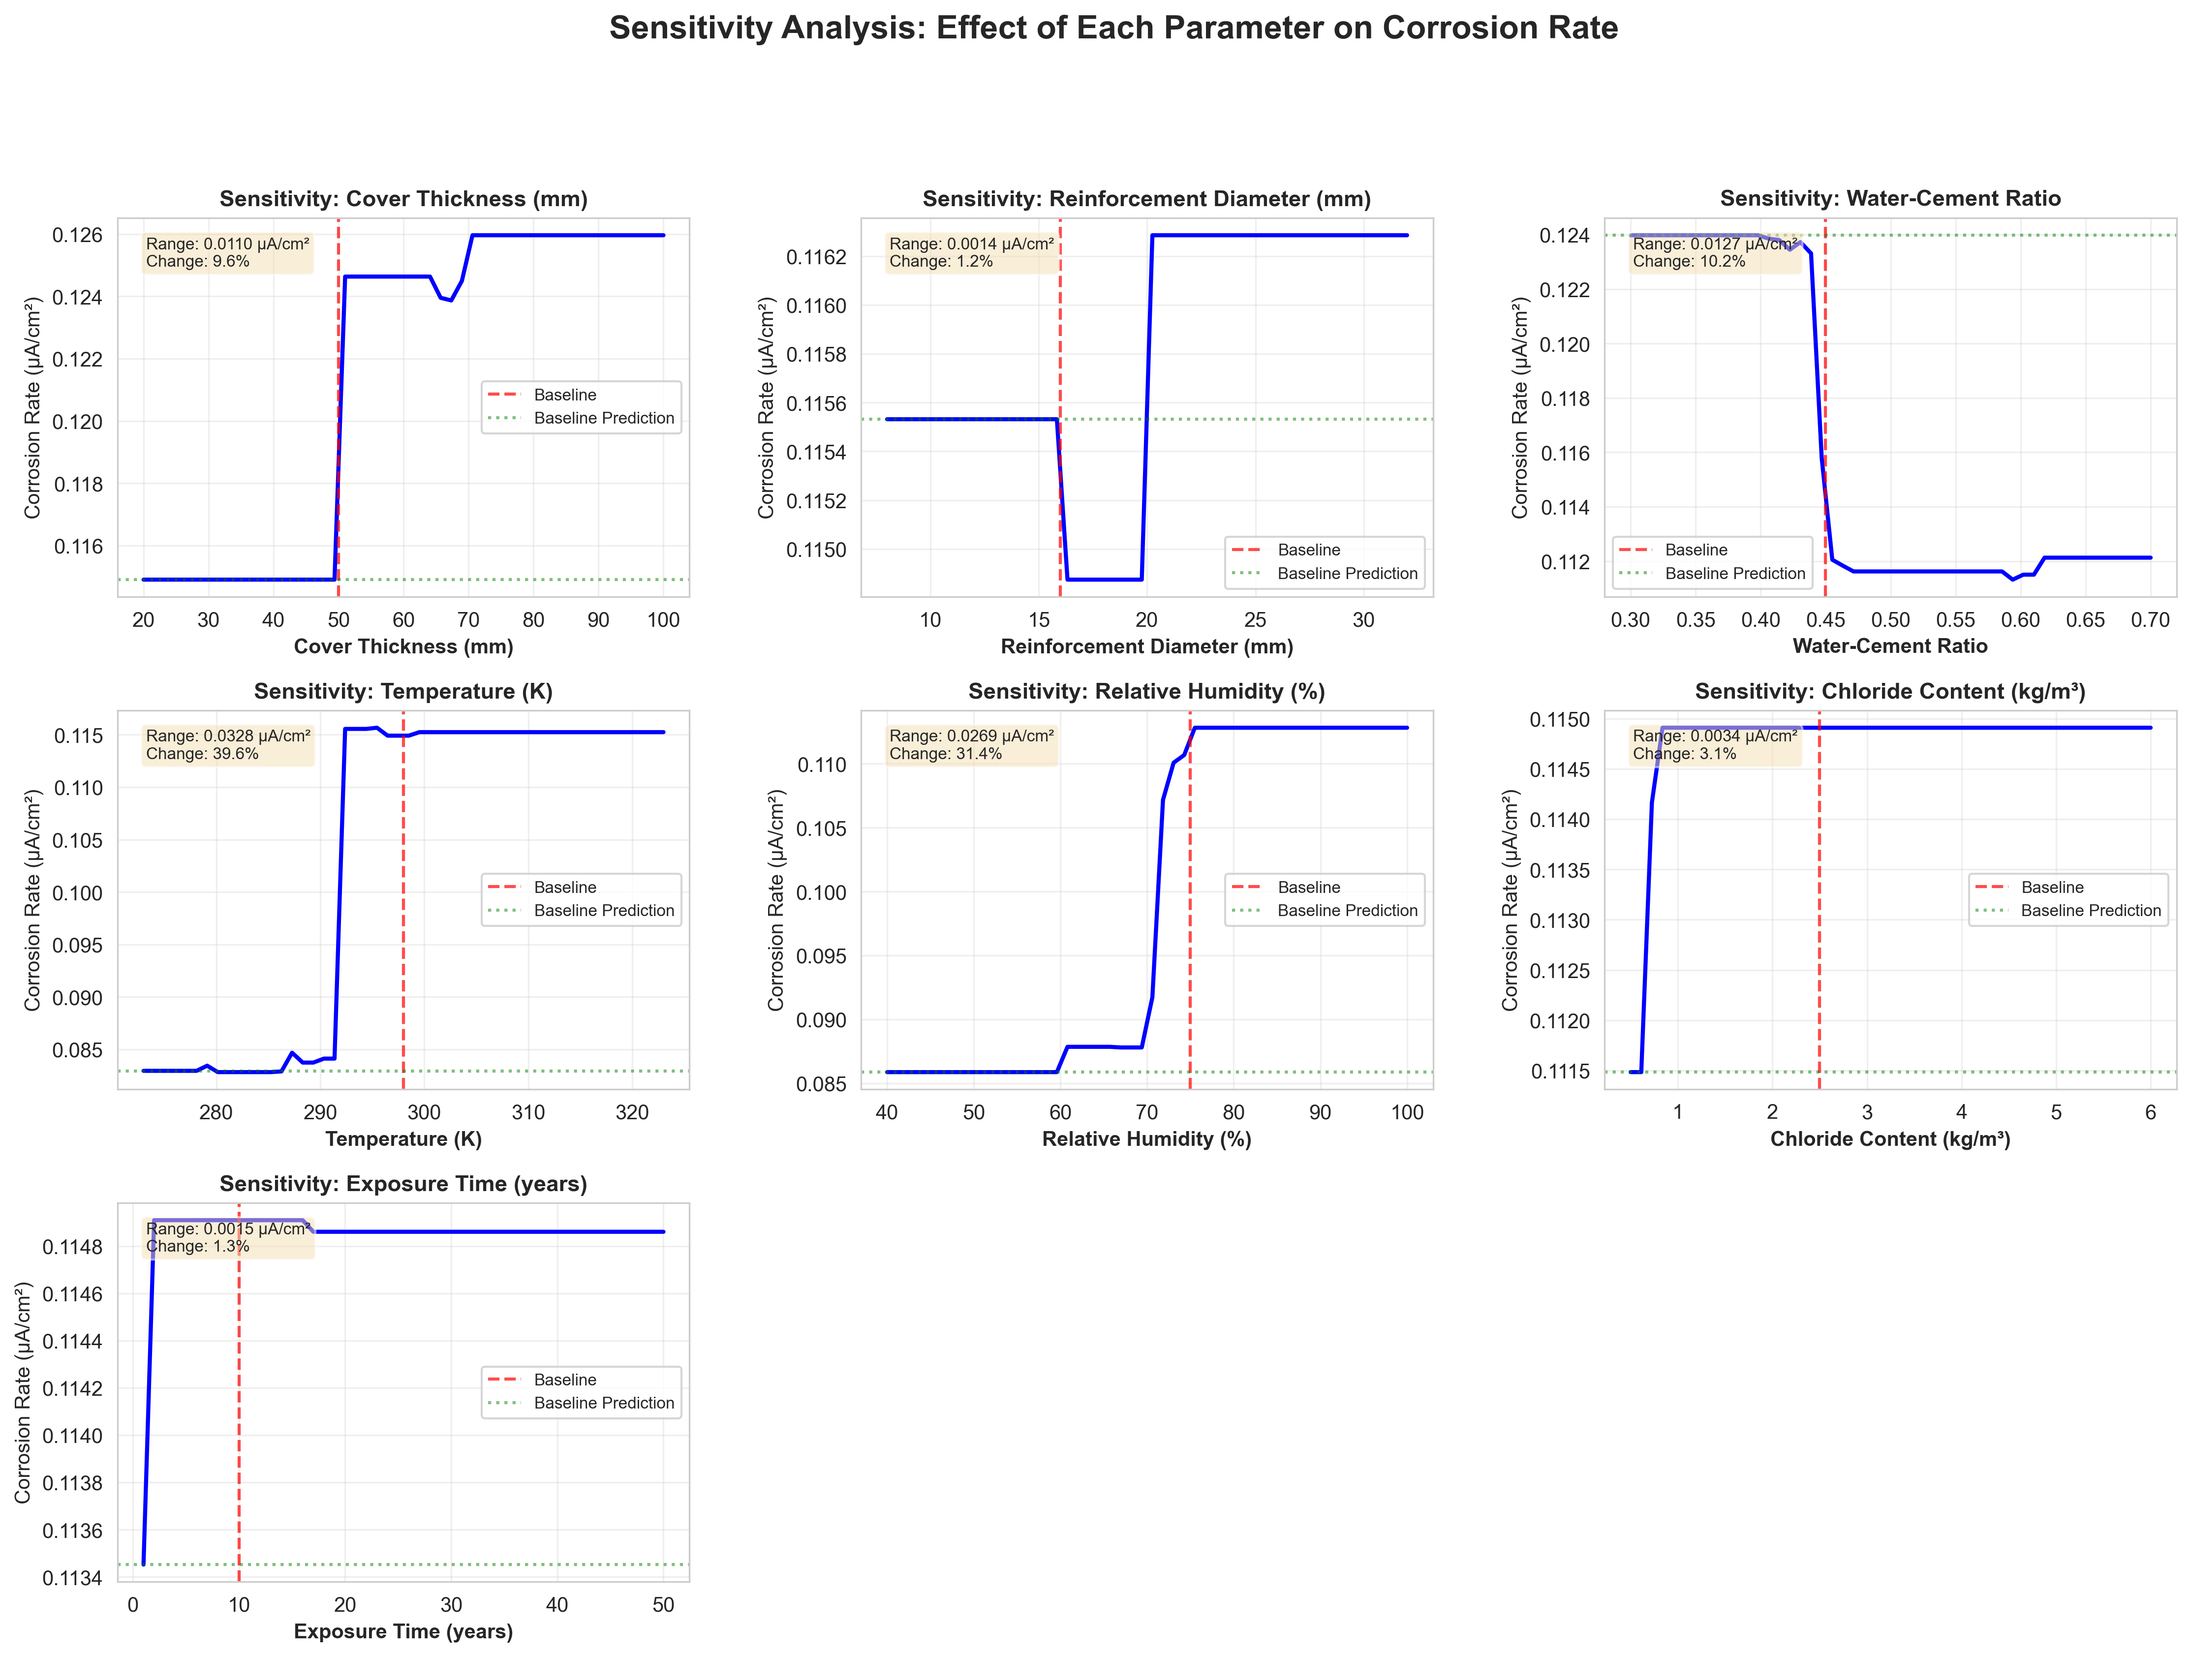
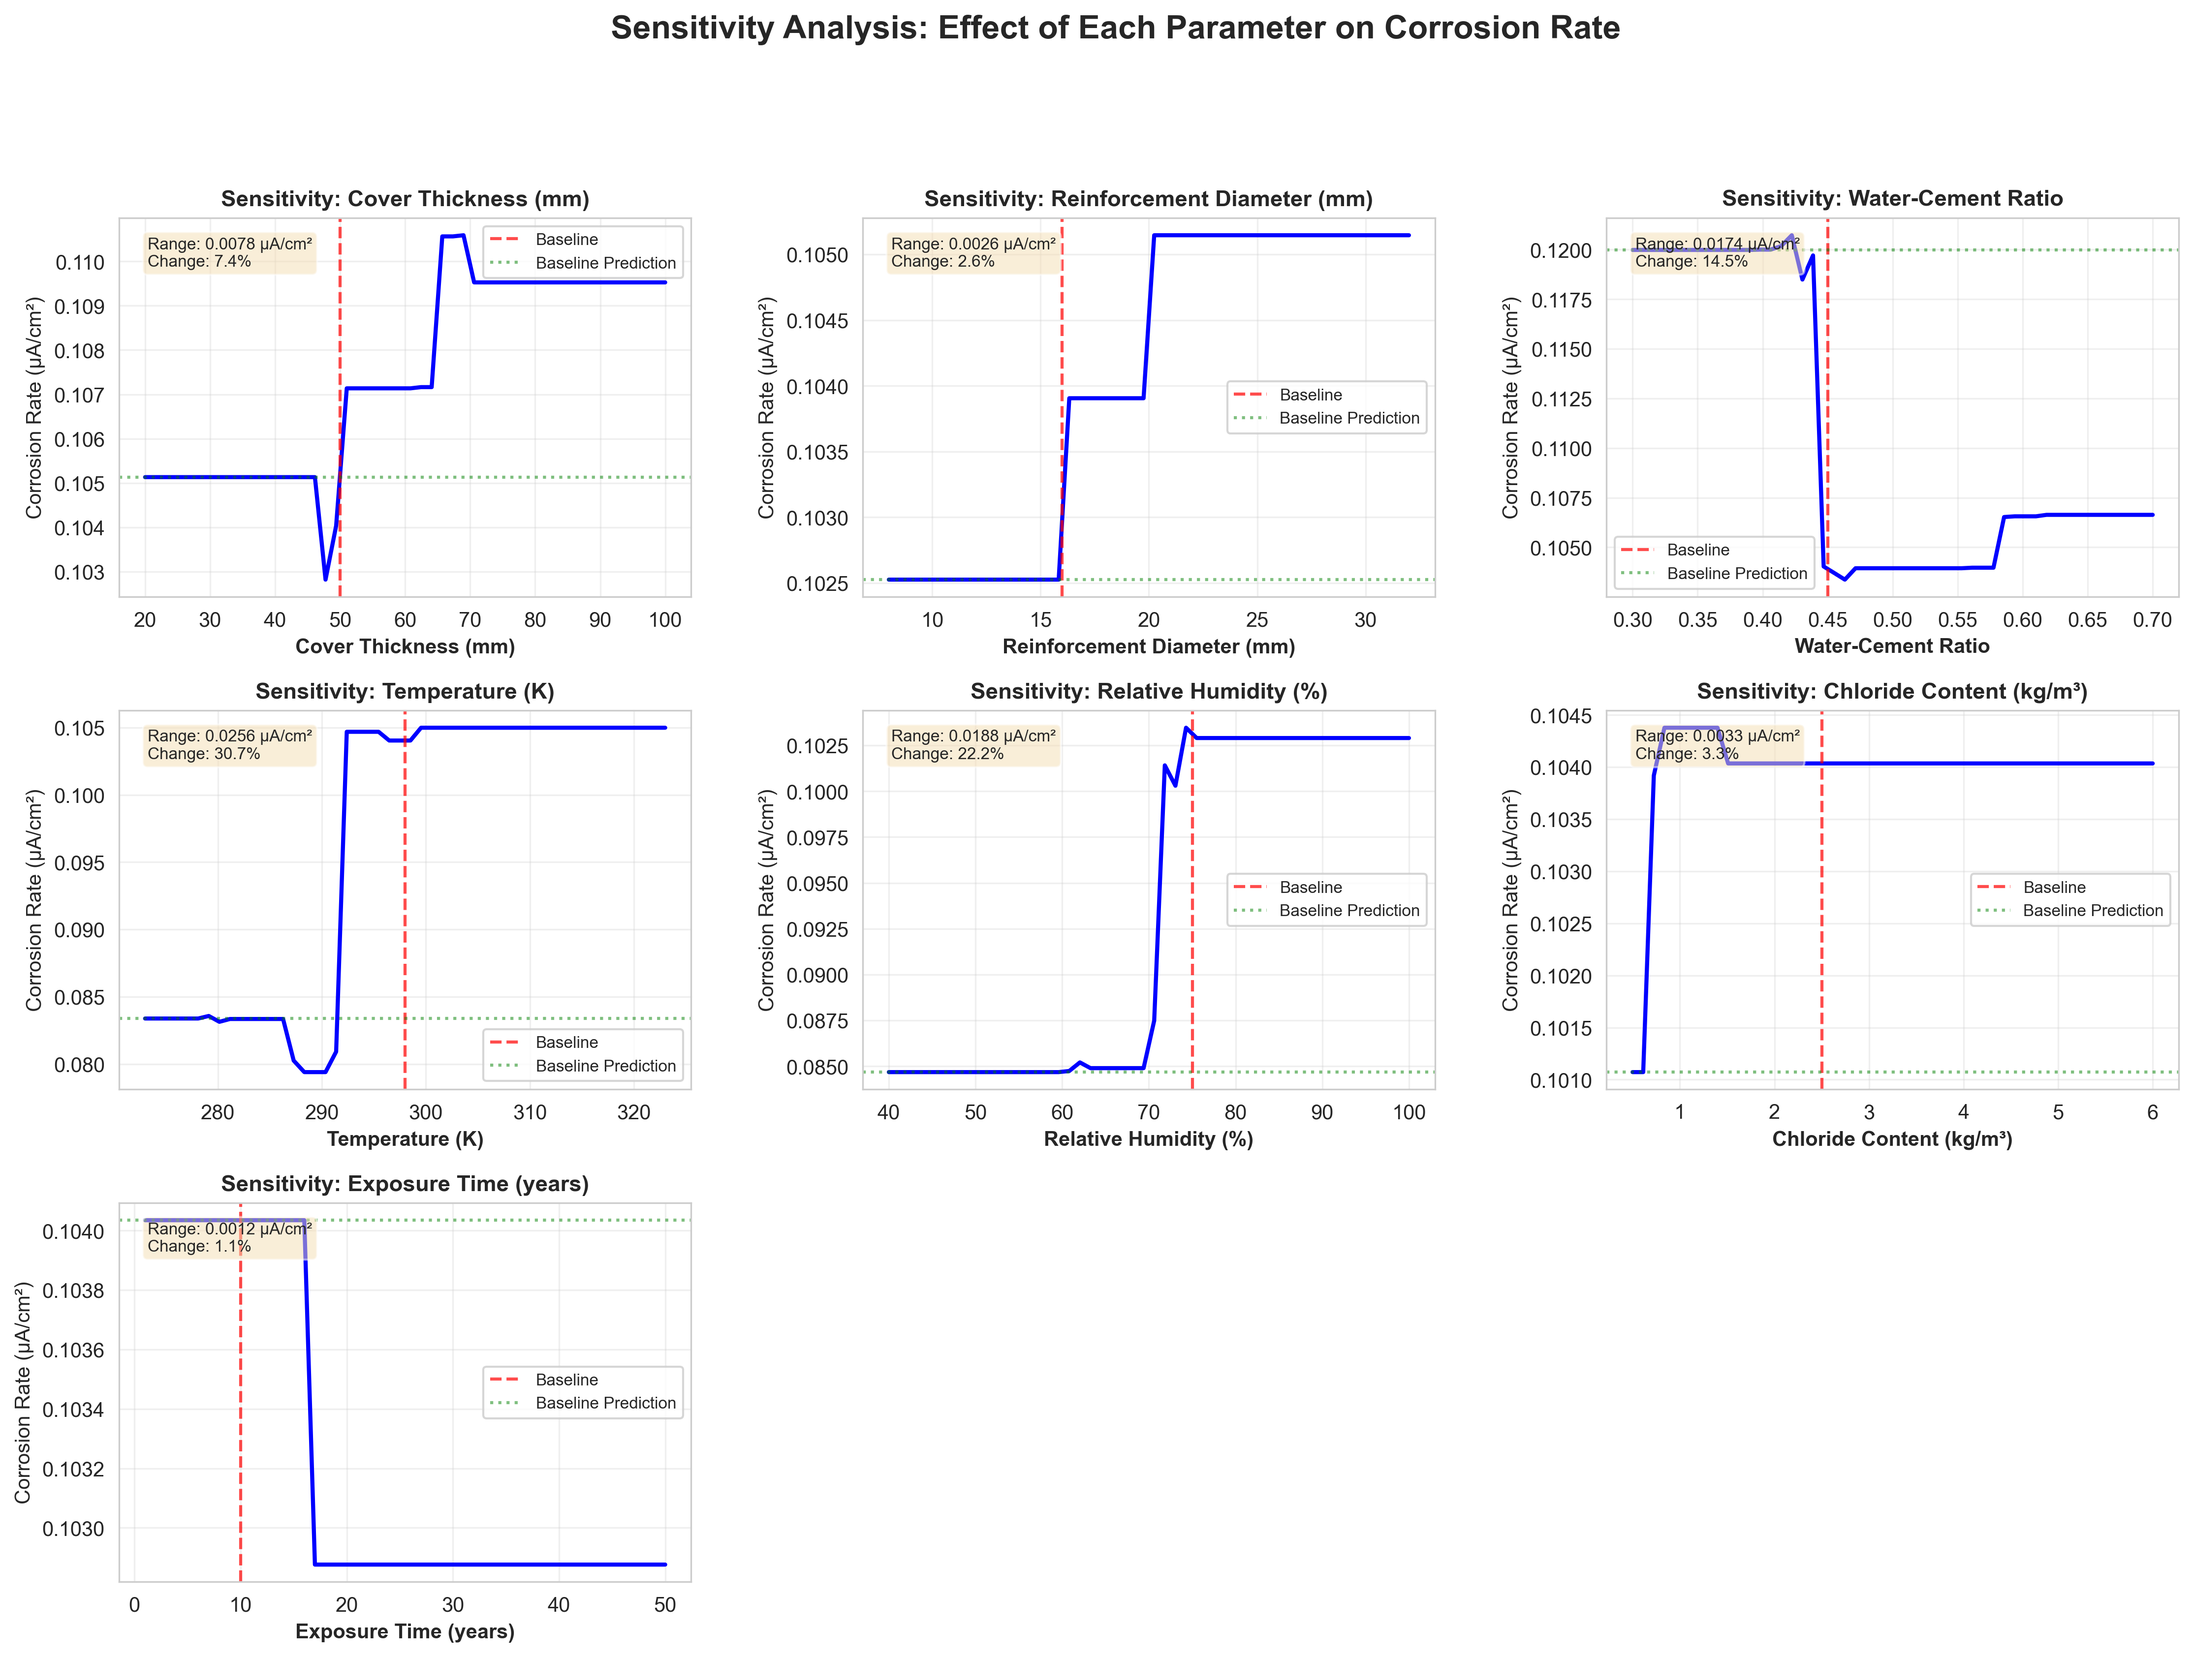
Add comprehensive sensitivity analysis report
- Added detailed sensitivity analysis table with impact levels
- Temperature identified as most critical factor (30.70% sensitivity)
- Environmental factors (Temperature + Humidity) = 52.88% of total sensitivity
- Added key findings and engineering implications
- Updated .gitignore to allow sensitivity report
- Added sensitivity visualizations for documentation

diff --git a/README.md b/README.md
@@ -148,5 +148,30 @@ The model identifies the following key factors affecting corrosion rates:
 | 8 | Reinforcement_Diameter_mm | 1.96% | Steel reinforcement size |
 | 9 | Cement_Cover | 2.24% | Interaction between cement ratio and cover |
 
+## Sensitivity Analysis Report
+
+A comprehensive parameter sensitivity analysis reveals how each input variable affects corrosion predictions:
+
+| Rank | Parameter | Sensitivity | Impact Level | Description |
+|------|-----------|-------------|--------------|-------------|
+| 1 | **Temperature (K)** | 30.70% | **High** | Critical environmental factor affecting reaction kinetics |
+| 2 | **Relative Humidity (%)** | 22.18% | **Moderate** | Primary moisture content determinant |
+| 3 | **Water-Cement Ratio** | 14.46% | **Moderate** | Controls concrete permeability and durability |
+| 4 | **Cover Thickness (mm)** | 7.39% | **Low** | Physical barrier protection mechanism |
+| 5 | **Chloride Content (kg/m³)** | 3.27% | **Low** | Corrosion agent concentration |
+| 6 | **Reinforcement Diameter (mm)** | 2.56% | **Low** | Steel reinforcement geometry |
+| 7 | **Exposure Time (years)** | 1.11% | **Low** | Temporal exposure duration |
+
+### Key Findings:
+- **Environmental factors** (Temperature + Humidity) account for **52.88%** of prediction sensitivity
+- **Temperature is the dominant factor** with 30.70% sensitivity impact
+- **Structural parameters** (Cover, Diameter) show surprisingly low sensitivity
+- **Time effect is minimal** (1.11%), suggesting corrosion occurs rapidly once conditions are met
+
+### Engineering Implications:
+1. **Climate control** is more effective than structural design for corrosion prevention
+2. **Temperature monitoring** should be prioritized in corrosion risk assessment
+3. **Humidity management** offers significant corrosion reduction potential
+4. **Material selection** (water-cement ratio) has moderate but meaningful impact
 
 
